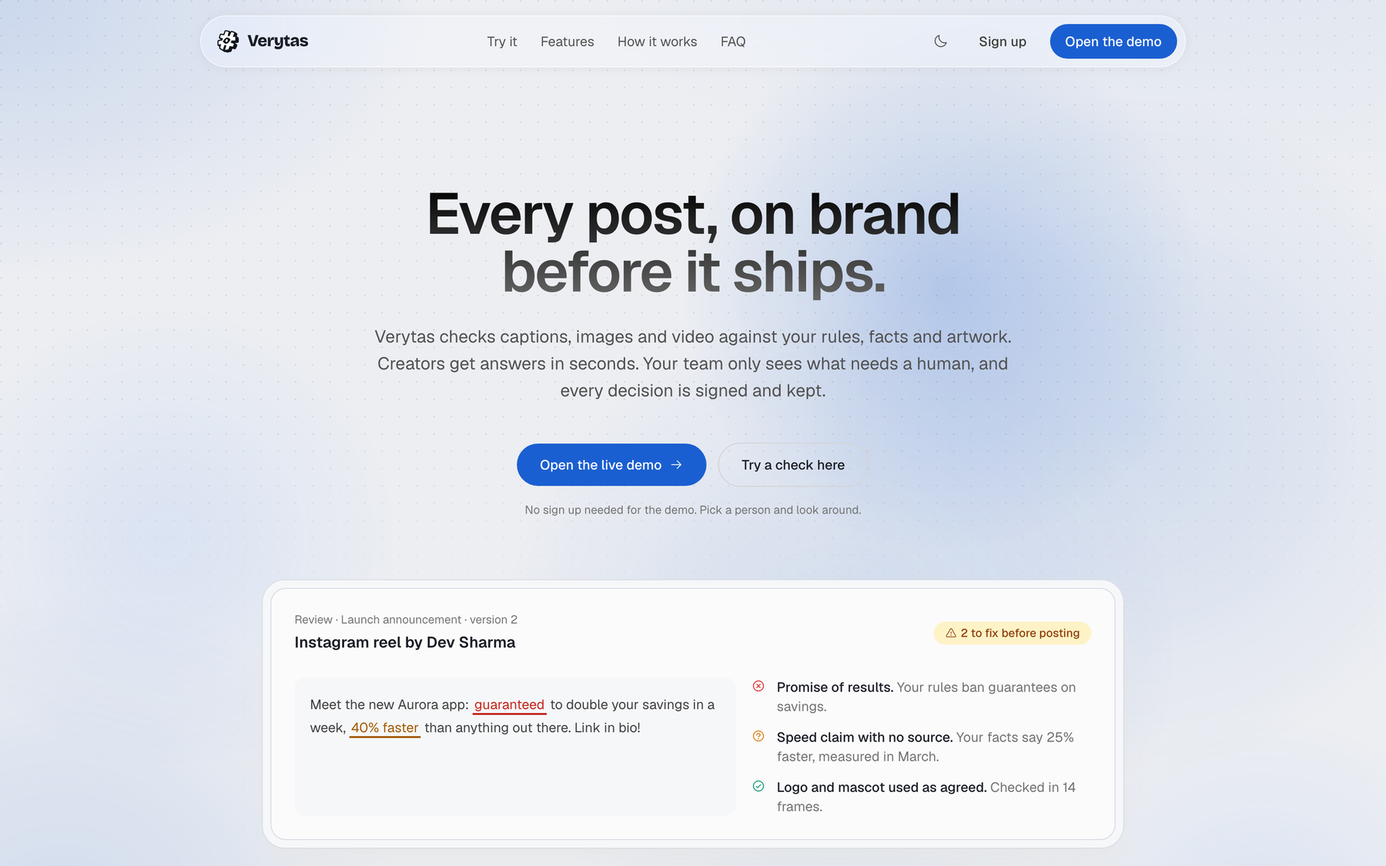
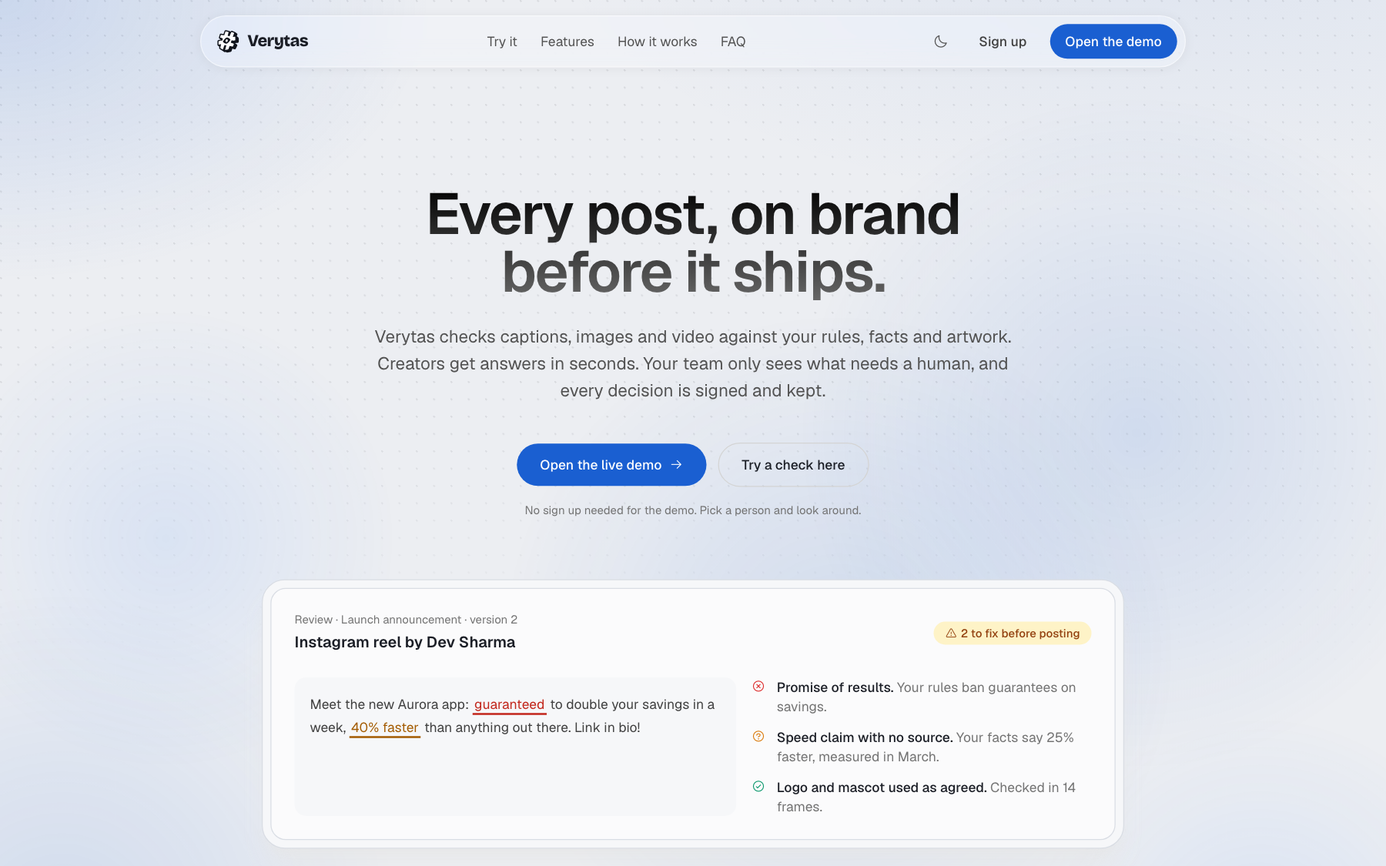
docs: Inki's memory, the stack as built, and today's screens
The README, architecture and security notes predated Inki's memory: it now appears as a feature, in both
diagrams, the stack, the Round 3 summary, the quality table and known limits, with its routes and a section
on how recall and the per-person store work and are held. Architecture section 17 still listed the Round 1
plan (Supabase, Vercel, Presidio, Vale, promptfoo, MCP SDK v2) and contradicted section 15; it now lists what
shipped, and section 3's egress filter describes the redactor that exists. The tour has 10 and 7 steps, not
9 and 6. The memory results record the public-demo run after release. Screenshots are retaken from the live
demo: the account card, the full-pane conversations and Inki's summary button were not in the old ones.

diff --git a/docs/architecture.md b/docs/architecture.md
@@ -58,7 +58,7 @@ Every record (source document, rule, fact, asset, log line, content item, findin
 
 The rules work like Bell-LaPadula ("no read up"), simplified for us:
 - An agent's capability token carries a **tier ceiling**, so a public-plane worker can never retrieve `confidential` facts.
-- Anything leaving for an external model passes the **egress filter**: Presidio PII recognisers plus a custom recogniser built from the workspace's confidential term list. Matches are swapped for placeholders (`[[CODENAME_1]]`) and restored after the response.
+- Anything leaving for an external model passes the **egress filter** (`security/redaction.py`): patterns for email addresses, phone and card numbers and secret keys, plus a matcher built from the workspace's confidential term list (sound-alikes included). Matches are swapped for placeholders (`[[CODENAME_1]]`) and restored after the response.
 - **Added:** confidentiality becomes a check in its own right. If a draft marketing post mentions an unreleased codename or an embargoed number, the Legal and confidentiality worker flags it ("this term is labelled confidential until 2026-12-01"). This is the most direct way to "protect confidential materials", and it's a feature most teams will miss.
 
 ---
@@ -330,7 +330,7 @@ flowchart LR
         MCPS["/mcp<br/>tools: read, search, submit"]:::sec
         CON["content<br/>/contents /reviews /findings<br/>transition, comments, timeline,<br/>resubmit, ai-edit, disputes,<br/>document preview and pages"]:::core
         INS["insights<br/>/insights/overview, recurring,<br/>guideline-health, performance"]:::api
-        AST["assistant · chats<br/>/assistant/context /chats"]:::api
+        AST["assistant · chats<br/>/assistant/context /chats<br/>/me/memories"]:::api
     end
 
     PRISM["Prism<br/>agents per part, judge"]:::core
@@ -397,6 +397,7 @@ flowchart LR
 | Brand events | `GET/POST /events` · `PATCH /events/{id}` · `POST /events/{id}/cancel` · `GET /events/{id}/impacts` | read: anyone · write: brand admin; every write runs the update chain |
 | Public contacts | `GET/POST /public-contacts` · `DELETE /public-contacts/{id}` | read: anyone · write: brand admin |
 | Ask Inki | `POST /assistant/context` (context plus the conversation, redacted with one set of placeholders) · `GET/POST/PUT/DELETE /chats` | anyone; confidential tier left out |
+| Inki's memory | `GET /me/memories` · `DELETE /me/memories` · `DELETE /me/memories/{id}` (section 24) | the person it is about, and no one else |
 
 Creators see only their own pieces on every content route; the brand team sees all of them within its clearance. Escalation messages, comments, disputes and resolution notes pass the guardrails (`security/guard.py`) before they are stored: a bribe or an instruction aimed at the AI is refused, and contact details are flagged for the brand team rather than refused, since a ten digit number is as often an order code. Conversation messages are not screened; Inki reads them only through its own guard.
 
@@ -443,24 +444,26 @@ The brief asks us to *check* accessibility, so our own UI should pass the same b
 
 ---
 
-## 17. Tech stack (and why)
+## 17. Tech stack (and why), as built
+
+The Round 1 plan named Postgres with pgvector on Supabase, Vercel and Render, Presidio, Vale, MiniCheck,
+SigLIP and promptfoo. What shipped is below; section 21 keeps the tools vetted for that plan, and section 19 its scope by round.
 
 | Layer | Choice | Why |
 |---|---|---|
-| Backend API | **Python 3.12, FastAPI, Pydantic** | the AI and NLP ecosystem (Presidio, sentence-transformers, OpenCV, grounding checkers) is Python-first; async for parallel workers; free OpenAPI docs |
-| Orchestration | asyncio task graph + governor in-process (MVP), Redis + arq workers later | simplest thing that runs end to end; scales out without a rewrite |
-| DB | **Postgres 16 + pgvector** (Supabase) | one database for relational, vector and RLS needs, matching the board's "1 database"; Supabase adds auth and storage for free |
-| Frontend | **Next.js + TypeScript + Tailwind + shadcn/ui** | fast to build an accessible review UI; Radix primitives are accessible by default |
-| Judge | **TypeSafe Jev** (`jev-1.13.0`) behind a `JudgeProvider` interface; **`gpt-oss:20b` on Ollama Cloud** as the free default when no Jev key is set | typed probabilistic answers per rule in one pass; the Ollama judge keeps the same interface, costs nothing on the free plan, and resamples only borderline answers |
-| LLMs | **Ollama Cloud** by default (`gpt-oss:120b` for explanations and rewrites, `gpt-oss:20b` for claim extraction), with Claude as a drop-in alternative behind the same `LLMProvider` interface | free tier fits the team's budget; schema-in-prompt plus pydantic validation and one repair round makes open models reliable for structured output; the interface lets routing control swap in a local model for confidential tiers |
-| Local models | sentence-transformers embeddings; **MiniCheck** grounding checker (770M, CPU); optional Ollama model for the confidential tier | confidential text never has to leave our server |
-| Lint | **Vale** (per-company YAML styles generated from rules), **textstat** | deterministic, instant, explainable |
-| Image | OpenCV, **colour-science** (CIEDE2000), Tesseract OCR, **SigLIP 2** embeddings | deterministic visual checks |
-| Accessibility | **axe-core** on rendered HTML, computed contrast, vision-model alt-text review | WCAG 2.2 coverage |
-| Safety | **Presidio** (now `data-privacy-stack/presidio`), custom recognisers, spotlighting, optional small injection classifier | PII and confidentiality |
-| Evals | **promptfoo** rubric suites | regression-test the judge and calibrate it against human labels in CI |
-| MCP | official Python MCP SDK v2 | standard, client-agnostic |
-| Deploy | Vercel (web) + Render or Fly.io (API) + Supabase | free tiers, quick |
+| Backend API | **Python 3.12, FastAPI, Pydantic, SQLAlchemy 2 (async)** | the media and model tooling is Python-first; async for parallel agents; free OpenAPI docs |
+| Orchestration | asyncio task graph with the governor in-process; Redis only for live conversation events | one process is enough for the demo's load and keeps a review's state in one place; the governor bounds model slots and running reviews |
+| DB | **SQLite** in WAL mode (Postgres-ready through asyncpg) | one file on one small server, readers never wait on the writer; the hash-chained audit log lives beside the data |
+| Frontend | **Next.js 16** (App Router, React 19), **Tailwind CSS 4**, OpenUI for Ask Inki's generated answers | server rendering keeps the session token off the browser; accessible components are written in-house |
+| Judge | **`gpt-oss:20b` on Ollama Cloud** behind a `JudgeProvider` interface, with **TypeSafe Jev** as the alternative | free on Ollama's plan; resamples only borderline answers; Jev gives typed probabilistic answers per rule where a key is set |
+| LLMs | **Ollama Cloud** (`gpt-oss:120b` for explanations and rewrites, `gpt-oss:20b` for extraction, `gemma4:31b` for vision), with Claude as a drop-in behind the same `LLMProvider` interface | free tier fits the team's budget; schema-in-prompt plus pydantic validation and one repair round makes open models reliable for structured output |
+| Local media | **RapidOCR** (ONNX Runtime), **faster-whisper**, OpenCV (SIFT and homography for artwork, YuNet and SFace for faces), pdfium, PyAV; LibreOffice in a sealed service | raw images and audio never leave the server |
+| Vision worker | Grounding DINO (tiny), SAM 2.1 (tiny), DINOv2 (small) on PyTorch CPU, on an instance that wakes on demand | too heavy for the always-on server; costs nothing while asleep |
+| Inki's memory | **fastembed** (`bge-small-en-v1.5`, ONNX, CPU) and **mem0** over an on-disk Qdrant store (section 24) | small enough for a 4 GB server (400 MB peak against 953 MB for the multilingual model, same accuracy on unseen cases); no service to run |
+| Safety | in-house text and pixel redaction, input guardrails (`security/guard.py`), Ed25519-signed findings | confidential terms are the brand's own list, so a fixed matcher with sound-alike matching beats a general PII model |
+| Evals | in-house harnesses under `backend/evals`, through the production code, results in `backend/evals/results` | each engine needs its own generated set and its own measure |
+| MCP | official Python MCP SDK 1.x (section 15) | 2.x is a rewrite with a different HTTP stack |
+| Deploy | AWS EC2 with Caddy and systemd, Cloudflare Pages in front, GitHub Actions, pull-based releases | one cheap server inside a hard budget cap; CI moves the branch the server pulls |
 
 ---
 
@@ -500,6 +503,8 @@ The table above is the Round 1 plan. **What Round 3 delivered** against the thre
 3. **The Brand Console runs it:** the approved-people tab with agreement dates, the video timeline with findings as marks and range comments, and image markup that the creator sees in place.
 
 **Round 3 add-on: performance feedback.** The brief asks for consistency before publishing; brands also ask whether a flagged post would have done worse. Once a piece is approved, its creator or the brand team records the live post's link and the numbers the platform shows (reach, views, likes, comments, shares, saves), or the brand team imports a CSV of numbers keyed by link (`api/results.py`). Nothing is fetched from a platform; reading Meta Graph, YouTube Analytics or LinkedIn's API where a brand grants access is the next step. Links are reduced to one address per post (https only, platform hosts without www. or m., YouTube short links and Shorts as the watch page, tracking parameters dropped), and a link belongs to one piece. Guideline health then shows, per rule, the median engagement of live posts that ran into the rule against posts on the same platforms that didn't, with a 90% bootstrap range for the difference. Three choices keep it honest: every rate uses one denominator (reach where most posts have it, else views); a finding dismissed as a false positive or not applicable doesn't count as running into the rule, while one fixed before posting does, since the question is whether what the rule catches costs engagement; and a rule says nothing until both sides have five posts with numbers. It informs the brand team's judgement and never changes a rule, a severity or a verdict, since engagement is confounded by budget, timing and audience; format and week are not controlled for yet.
+
+**Round 3 add-on: Inki's memory.** Inki used to see only a conversation's last 12 turns, so a decision made early in a long thread was invisible to it. It now gets the earlier turns a question depends on, and Ask Inki keeps what a person says about how they work (section 24).
 
 ---
 
@@ -611,6 +616,8 @@ Depth (8) and agent count (200) are capped per review. Every node records role, 
 
 **Precedent memory** (`prism/precedent.py`): every reviewer decision is a case (case-based reasoning): the rule, the flagged words, what was decided and why. A model-judged finding is shown its two nearest past cases on the same rule in the workspace, by word overlap (Jaccard over content words, at least 0.2), as "Dismissed on 4 Oct by Meera: tagline approved by the CMO", so a reviewer sees the earlier call instead of arguing it again. Cases come only from content at or below this content's tier, confidential terms and personal data in them are masked, creators are not shown them (they quote other people's pieces and name the reviewer), and they are context, never part of the signed verdict; mechanical findings are not touched. The same cases can be given to the semantic judge as extra examples (`precedent_examples`), but only clear outcomes count: an "intentional" dismissal says the words did break the rule. That stays off. Replaying the 234 seeded decisions in time order (`backend/evals/precedent`), the nearest cases agreed with the next reviewer less often than the rule's plain majority did (16 of 22 against 19 of 22 where a precedent existed). The seeded reviewers decide by persona at fixed rates per rule, so similar words carry no signal there; real reviewers are more consistent, and the examples wait for a measurement on real decisions.
 
+**Inki's memory** (`verytas/memory`, results in `backend/evals/results/memory.md`). Two kinds, one local embedding model (`bge-small-en-v1.5` through fastembed on CPU, loaded at start-up). *Earlier turns* (`memory/thread.py`): on top of the last 12 turns, up to 6 earlier ones from the last 400 are added when the question needs them. The question is ranked against them by meaning blended with shared words; acknowledgements ("ok", "lunch now") are not ranked; only turns that stand out from the rest are taken, so an unrelated question adds nothing. When the history is long enough to need it, the fast model first rewords the question, which closes vocabulary gaps the small model cannot ("what format" against "do it as a carousel") and carries Hinglish questions. Each message's vector is cached sealed like the message itself and goes when the message is edited or deleted; consent is checked again before the question first leaves the server, and no database transaction is held across a model call or an embedding. Inki is told that of two disagreeing turns the later one stands. On 28 generated conversations of 40 to 90 turns (5 seeds each), the turns holding an early decision reached Inki in 0% of cases before, 97% on the 12 cases the policy was tuned on and about three in four on 12 it never saw; through the live site, a 37-message thread got 5 of 5 questions right in 3.5 to 4.1 seconds. *About the person* (`memory/personal.py`): after each Ask Inki save, in the background, the fast model draws lasting facts ("runs the Instagram channel", "prefers short bullet answers") from the person's newest messages, through the same redacting provider as every model call, at most 20 calls an hour per person; a fact that names a confidential term is dropped. Facts are stored with mem0 over an on-disk Qdrant store under a scope built on the server from the signed-in person (workspace and user, never from the request), with their tier; a near-duplicate (cosine 0.92 or more on our own embedder) updates the old fact instead of adding one. Ask Inki gets the five nearest to the question. Nothing is drawn from shared conversations. Settings lists every fact, and one or all can be forgotten: mem0's own history log is replaced by a no-op and Qdrant's SQLite runs with `secure_delete`, so a forgotten fact is gone from the file, not just unlinked. The demo reset wipes it with the data it belongs to. `VERYTAS_MEMORY_ENABLED=false` turns both off and Inki reads only the recent turns, as before.
+
 **Calibration** (`prism/calibration.py`): a finding's certainty is also shown as what it has meant here: "reviewers agreed with 8 in 10 like it". An isotonic regression (pool adjacent violators) maps raw certainty to "the reviewer upheld it", fitted on the workspace's decided findings, per check category once it has 20 decisions and workspace-wide from 30; each step is shrunk towards the overall rate by ten pseudo-decisions, so a handful of decisions never reads as "always". Kept-on-purpose dismissals count as agreement, "guideline unclear" and escalations as nothing. Model-judged warnings on should rules also get a learned floor once there are 50 such decisions: a fixed grid from 0.85 down to 0.6 is tested in order (fixed-sequence testing, so the 90% holds over the scan), each step asking with a Hoeffding bound whether reviewers dismiss under 35% of warnings at or above it, in the style of Learn-then-Test; below the lowest step reached a finding is an advisory, still shown and marked as held back. Counts come only from content at or below this tier, and creators see the agreement rate but not the counts. Must rules and rule-based findings are never moved. Measured by replaying decisions in time order (`backend/evals/calibration`): on the seeded reviewers, who decide blind to certainty, the calibrated value (Brier 0.108) beats raw certainty (0.128) but not the plain base rate (0.101), which is the most anything can learn from them; on simulated reviewers who agree less often than the judge claims, it beats both (0.076 against 0.084 and 0.128). The shrinkage of ten was picked after a sweep on the seeded data, so treat these as a check that the mechanism works, not as a tuned result.
 
 **Learning from fixes** (`prism/fixstyle.py`): every model-written fix records its operation (swap the words, rewrite the sentence, delete it), and reviewers answer it: accepting the finding takes the fix, writing their own edit ("edited") does not, and a dismissed finding says nothing about its fix. Per rule, the operation to prefer is drawn by Thompson sampling from a Beta posterior per operation, once the rule has four decided fixes, so an operation with few chances still gets tried instead of the first lucky one winning for good. The fix prompt gets the preference with its counts, and the reviewers' own edits on the nearest similar lines (Reflexion-style memory, masked and escaped, so an edit cannot forge a hint of its own) as approaches to follow; a repair gets the edits but not the preference, since being told what went wrong outranks a habit. Counts and edits come only from content at or below this tier. Both are hints: the fix gate judges every proposal exactly as before. On simulated reviewers (`backend/evals/fixstyle`, 100 fixes per rule, 200 runs), learning which operation reviewers take had 74%, 80% and 64% of fixes taken on three kinds of rule, against 53%, 52% and 52% for the model alone (the best possible was 80%, 85% and 70%). Most of that gain comes from learning at all: always taking the best smoothed rate so far does almost as well (74%, 80%, 64%), and Thompson sampling is ahead only over the last 50 fixes (78% against 76%, 83% against 81%, 66% against 65%), where its exploration has paid off. The live half (`evals/fixstyle/live.py`, 53 fix cases on the production model, no repair round) shows the hint is followed: preferring rewrite took rewrites from 32 to 42, preferring replace took replacements from 8 to 33. A preference that does not fit the case costs fixes rather than letting bad ones through: the gate passed 43 with no hint, 40 preferring rewrite and 34 forcing replace everywhere, which is why the preference comes only from what reviewers took for that rule. Counts and tallies are not shown to creators.
@@ -627,7 +634,7 @@ Social content is short, so a 300-page PDF behind a caption, a 40 MP image or in
 
 **First steps** (`api/onboarding.py`, `components/home/GettingStarted.tsx`). On first sign-in each role sees one line on what its side of Verytas is for and a short checklist, ticked from what the workspace really holds, never stored: a brand admin hands over brand material, adds facts, codenames and artwork, invites a creator (with the join code) and sees a first review; a creator submits, fixes and asks; a reviewer or approver decides on a finding and asks. An empty company can load a sample brand kit (the fictional Kitepath library) through the library's own endpoints, only while its library has nothing of its own. A plain note says the demo companies are synthetic and that in production the library is filled from a brand's own systems through Intake.
 
-**Guided tour** (`components/Tour.tsx`). First-time users in testing could not tell what each part was for (`docs/research/user-testing.md`), so the console opens with a tour: a spotlight on one sidebar section at a time and a card in plain words, with Back, Next and Skip; nine steps for the brand team, six for creators. Every target is on every page, so the tour never navigates. It starts once per side per browser (`vt-tour:manager`, `vt-tour:creator` in local storage), not per account, because a demo visitor trying a second brand-team person has already had that tour; Settings > Profile starts it again. It is a modal like the others (focus kept in the card, the page inert, Escape skips), and on a short screen the card takes the larger free side and scrolls inside.
+**Guided tour** (`components/Tour.tsx`). First-time users in testing could not tell what each part was for (`docs/research/user-testing.md`), so the console opens with a tour: a spotlight on one sidebar section at a time and a card in plain words, with Back, Next and Skip; ten steps for the brand team, seven for creators. Every target is on every page, so the tour never navigates. It starts once per side per browser (`vt-tour:manager`, `vt-tour:creator` in local storage), not per account, because a demo visitor trying a second brand-team person has already had that tour; Settings > Profile starts it again. It is a modal like the others (focus kept in the card, the page inert, Escape skips), and on a short screen the card takes the larger free side and scrolls inside.
 
 **Search** (`api/search.py`, `components/GlobalSearch.tsx`). One bar at the top of every page (Cmd or Ctrl+K, or /) searches pieces, findings (latest review only), escalations, creators, rules, facts, codenames, artwork, events and the console's own pages and settings. Each group applies the same scoping as the screen it links to, in the query itself: workspace, tier clearance, creators only their own pieces, codenames for brand admins only, and no library hits for creators. Before anything is typed it suggests what needs this person next: the review queue oldest first, open escalations, guidelines reviewers often override, recent pieces. Recent hits are remembered per account in the browser.
 

diff --git a/README.md b/README.md
@@ -20,7 +20,7 @@ Verytas checks every post, caption, image, document and video against a brand's 
 
 </div>
 
-<p align="center"><img src="docs/assets/review.png" alt="A piece open on the review screen: the caption with each issue marked in place, the issues beside it with the rule and the approved fact behind them and who decided each, the steps from written to published, and a bar at the bottom that sends the piece back with its changes" width="900"></p>
+<p align="center"><img src="docs/assets/review.png" alt="A piece open on the review screen: the caption with a misspelt product name marked in place, the issues beside it ranked must fix to consider, the first open with the rule behind it and the suggested fix, the steps from written to published, and a bar at the bottom that walks the reviewer through what is left" width="900"></p>
 
 ## The problem
 
@@ -39,9 +39,10 @@ A brand works with dozens of creators and agencies who post every day, in many l
 | **Fixes, not just flags** | It swaps a phrase, rewrites a sentence or removes a dig, whichever the rule needs, and a judge that knows the rule checks the offer and call to action survive. One click applies it. |
 | **Keeps people in charge** | Creators can dispute a reading; the brand team walks through the issues one by one (asking for a fix, keeping it as is with a reason, or escalating), then approves or sends the piece back with the fixes it asked for, and every override needs a written reason. |
 | **Easy to pick up** | A guided tour on the first visit to each side, plain-word summaries of any piece, and every status, score and empty page explained where it appears. Shaped by [user testing](docs/research/user-testing.md) with three first-time users. |
-| **Talks it through** | *Conversations* between a creator and the brand team, next to the piece in question: replies, edits, deletes, files with previews, and meeting links that become a Join card. Encrypted at rest, live over Redis (it falls back to one process without it). Mention **@Inki** and the assistant answers from the record, only after the person asking has agreed that it may read the conversation. |
+| **Talks it through** | *Conversations* between a creator and the brand team, next to the piece in question: replies, edits, deletes, files with previews, and meeting links that become a Join card. Encrypted at rest, live over Redis (it falls back to one process without it). Mention **@Inki** and the assistant answers from the record, only after the person asking has agreed that it may read the conversation. In a long thread it finds the earlier turns the question depends on, so a budget agreed 40 messages ago still reaches it. |
 | **Marks the exact spot** | Videos play in the review with each issue on the timeline; drag along it to comment on a stretch, at 0.5x to 2x, with no download. Images take a marker, an eraser and text, saved with the comment, so the creator sees what to change in place. |
 | **Learns how posts did** | Once a piece is live, its link and the platform's numbers go on the piece (typed, or a sheet for the brand team). Guideline health then shows, per rule, how posts that ran into it did against those that didn't, as a range, and only once there are enough posts. Nothing is read from the platforms. |
+| **Remembers how you work** | Tell *Ask Inki* "I run the Instagram channel, keep answers short" once, and it keeps that for you alone. Settings lists everything it kept, and each item or all of it can be forgotten. Nothing is kept from shared conversations. |
 | **Works from your AI client** | A personal token lets Claude Desktop, Claude Code or any MCP client read your reviews, search and submit text as you, never more: no approving, no confidential terms ([how](docs/mcp.md)). |
 | **Learns from decisions** | Rules that reviewers keep overriding are surfaced as unclear, and model-judged rules tune how confident they must be before flagging. |
 
@@ -114,6 +115,8 @@ flowchart LR
         MCP["MCP endpoint<br/>personal tokens,<br/>read and submit only"]:::api
     end
 
+    MEM["Inki's memory<br/>local embeddings: earlier turns,<br/>what each person told Ask Inki"]:::local
+
     LOCAL["Local media tools<br/>OCR, speech to text,<br/>image matching, faces, PDF"]:::local
     VISION["Vision worker<br/>finds and compares mascots<br/>(wakes on demand)"]:::local
     MODELS["Ollama Cloud<br/>gpt-oss, gemma4 vision"]:::ext
@@ -124,6 +127,7 @@ flowchart LR
     AI --> MCP --> API
     API --> CONV --> REDIS
     CONV --> GUARD
+    API & CONV --> MEM
     PRISM --> CHECKS
     PRISM --> LOCAL
     PRISM --> VISION
@@ -161,7 +165,7 @@ flowchart LR
         CAD["Caddy<br/>HTTPS, security headers,<br/>/mcp straight to the API"]:::web
         NX["Next.js<br/>:3000"]:::web
         FA["FastAPI + Prism<br/>:8000"]:::api
-        SQ[("SQLite<br/>+ media blobs")]:::data
+        SQ[("SQLite, media blobs,<br/>Inki's memory on disk")]:::data
         TM["Deploy timer<br/>every 3 min"]:::ops
         RD[("Redis<br/>loopback only")]:::data
         KW["Keep-warm timer<br/>judging hours, 10 USD cap"]:::ops
@@ -221,6 +225,7 @@ flowchart LR
 | **Backend** | Python 3.12, FastAPI, SQLAlchemy 2 (async), SQLite (Postgres-ready), Pydantic |
 | **AI models** | Ollama Cloud: `gpt-oss:120b` and `gpt-oss:20b` for language, `gemma4:31b` for vision. Swappable for TypeSafe Jev or Anthropic Claude |
 | **Media, all local** | RapidOCR (ONNX Runtime), faster-whisper, OpenCV (with YuNet and SFace for faces), pdfium, PyAV, LibreOffice (sandboxed, for Word and PowerPoint previews) |
+| **Inki's memory** | fastembed with `bge-small-en-v1.5` on ONNX Runtime (CPU, 65 MB), mem0 over an on-disk Qdrant store; no service and no telemetry |
 | **Vision worker** | Grounding DINO (tiny), SAM 2.1 (tiny), DINOv2 (small) on PyTorch CPU, on an EC2 Graviton instance that wakes on demand |
 | **Security** | Ed25519-signed findings, SHA-256 hash-chained audit log, text and pixel redaction, input guardrails, CSP |
 | **Infra and delivery** | AWS EC2, Caddy, systemd, Cloudflare Pages, GitHub Actions (pinned to commit SHAs), gitleaks, pip-audit, pnpm audit |
@@ -248,6 +253,7 @@ page language is declared. It has not been audited against WCAG by an outside te
 - **People's faces follow the brand's records.** A face is identified against the approved-people library; public portraits are looked up only when the brief names someone and the content isn't confidential.
 - **Uploaded files are handled as hostile.** Types are read from the bytes; zips, XML and pictures are read within size and pixel budgets; a web page is shown only in a frame with no scripts and a policy that loads nothing from outside, after every outside address is cut from it; Word and PowerPoint are converted in a sealed service (above).
 - **Checked before going public.** The whole git history was scanned for secrets with gitleaks: none.
+- **What Inki keeps about you is yours.** It is drawn only from your own Ask Inki chats, never from a shared conversation, with confidential terms dropped. Only you can see it, in Settings, and forgetting it removes it from disk, not just from the list.
 - **Signing out ends the session at the server.** A password account's token is revoked on sign-out and lapses after 7 days.
 - **What people type is screened too.** Bribes and instructions aimed at the AI are refused before they are stored. Contact details are flagged for the brand team, never refused: a long number is as often an order code.
 - **Access follows role and clearance**, checked on the server on every request, including in the audit log.
@@ -269,7 +275,9 @@ The three improvements committed to after Round 2, and where each stands.
 <p align="center"><img src="docs/assets/conversations.png" alt="Conversations: the brand team's inbox on the left, and a thread with a creator about a piece, with a Google Meet link shown as a Join card and Ask Inki shortcuts above the message box" width="900"></p>
 
 Also added in Round 3: performance feedback (a live post's link and numbers on the piece, compared per rule in
-Guideline health), a personal-token MCP endpoint, a landing page, and Redis behind conversations.
+Guideline health), a personal-token MCP endpoint, a landing page, Redis behind conversations, and memory for
+Inki: the earlier turns of a long conversation, and what a person tells Ask Inki about how they work
+([how it was measured](backend/evals/results/memory.md)).
 
 **Reliability.** A test sends every API route the inputs nobody should send (ids that overflow, wrong types,
 empty and oversized bodies) as each role, and fails on any server error; it found and fixed a class of 500s.
@@ -293,6 +301,7 @@ method and the full results.
 | [Parts that disagree](backend/evals/results/crossmodal.md) | 28 posts | **14/14** caught, **0** false alarms |
 | [Judgement rules](backend/evals/results/second_look.md) | 32 sentences | **30/32** right |
 | [Suggested fixes](backend/evals/results/summary.md) | 73 findings | **82%** useful (45% before), **0** invented numbers |
+| [Inki's memory](backend/evals/results/memory.md) | 28 long conversations, 5 seeds each | an early decision reaches Inki in about **3 in 4** conversations it was never tuned on (**0%** before, with only the last 12 turns); **5/5** answered right on the live demo |
 | [Black-box simulator](blackbox/README.md) | 216 cases | **96%** recall, **0%** false alarms on clean posts |
 
 - **Over 700 backend tests** run offline on every push, including a sweep that sends every API route input nobody should send and fails on any server error, with type checks, lint and a production build for the web apps.
@@ -307,6 +316,8 @@ method and the full results.
   cut-out, not the comparison.
 - **Hindi speech** is transcribed with much error on CPU; codenames are caught by sound, other Hindi claims
   less reliably.
+- **A decision changed later in a long thread** reaches Inki in about half to two thirds of cases where the
+  change is worded unlike the question; Inki is told the later turn stands, but it has to see both.
 - **Post numbers are typed or imported**, not read from the platforms.
 - **No voice calls inside Verytas**; meetings run on the apps people already use.
 - **Open security items** (a script nonce, token rotation, per-user limits on Ask Inki) are listed in the
@@ -336,7 +347,7 @@ pnpm dev:manager                     # Brand Console on :3000
 pnpm dev:creator                     # Studio on :3001
 ```
 
-The seed creates the *Kitepath* brand with seven creators and eight weeks of history, and writes their tokens into `web/.env.local`. Without any API keys, model-judged checks fall back to an offline heuristic and every review says so. Without a backend, the web app shows clearly labelled sample data.
+The seed creates the *Kitepath* brand with seven creators and eight weeks of history, and writes their tokens into `web/.env.local`. Without any API keys, model-judged checks fall back to an offline heuristic and every review says so. Without a backend, the web app shows clearly labelled sample data. On first start the API fetches the 65 MB embedding model for Inki's memory into `backend/.memory/`; without a network Inki reads only the recent turns, and `VERYTAS_MEMORY_ENABLED=false` turns memory off.
 
 ## Repository layout
 

diff --git a/docs/security/README.md b/docs/security/README.md
@@ -148,6 +148,7 @@ What was added after Round 2, and how each new surface is held.
 | Surface | How it is held |
 |---|---|
 | Conversations | Messages and their file details are sealed at rest with AES-GCM under a 256-bit key kept on the server outside the database, bound to their conversation. A creator sees only conversations they are part of. People are never refused for what they type (a phone number, an email); the limits are on Inki, in code (`services/inki_guard.py`): it answers @Inki only for someone who agreed to it reading the conversation, sees only that conversation and the pieces both people may open, with confidential terms replaced; a request for its instructions gets a fixed answer; everything people wrote goes in as quoted data; a reply that recites its instructions is replaced, and links and private contact details are taken out of its replies; and it has a per-person hourly limit. A link becomes a Join card only for a known meeting service (Google Meet, Teams, Zoom, Skype, Jitsi, Whereby); anything else stays plain text. |
+| Inki's memory (`verytas/memory`) | Earlier turns of a conversation are recalled only for someone who consented, re-checked before the question leaves the server; each message's vector is cached sealed like the message and removed with it. What Ask Inki keeps about a person comes only from their own Ask Inki chats, through the redacting provider, with any fact naming a confidential term dropped, at most 20 extraction calls an hour per person. It is stored under a scope the server builds from the signed-in person (workspace and user, never request input) with their clearance, and only they can list or delete it (`/me/memories`). Forgetting removes the text from disk: mem0's history log is a no-op and Qdrant's SQLite runs with `secure_delete`, checked by a test that greps the files for a forgotten fact. The local store is one process, which matches the single API worker; the demo reset wipes it with the data. |
 | Redis (live conversation events) | Bound to loopback with protected mode on, no persistence (the database is the record) and a 64 MB cap with old cache pages evicted first. Without it conversations still work in one process. |
 | MCP endpoint (`/mcp`, `docs/mcp.md`) | Personal tokens (`vt_pat_`, random, stored as SHA-256) work only there; the REST API refuses them, and a session token is refused at `/mcp`. Only accounts with their own password can make one, so the shared demo picker's people cannot. The Origin header is checked, tool calls are limited to 60 a minute per token and all requests to 240, and 20 failed sign-ins a minute from one address answer 429. Answers are redacted like the chats, capped at internal clearance, and search refuses a query that spells out a confidential term. |
 | Live post links and numbers | Links must be https, carry no user name or password, and use a plain ASCII host; tracking parameters are dropped. Nothing is ever fetched from the link, so a link cannot make the server call out. A sheet of numbers updates only live pieces within the importer's clearance, and is capped at 500 KB and 2,000 rows. |

diff --git a/web/README.md b/web/README.md
@@ -15,14 +15,14 @@ see; the apps only lay it out.
 | `/conversations` | Conversations between a creator and the brand team beside the piece in question: replies, edits, files, meeting links as Join cards, and @Inki on request |
 | `/creators` | Each creator's record (brand team) |
 | `/library` | Rules, facts, confidential terms, artwork and Intake, where brand material is handed over and drafted into the library |
-| `/guidelines` | Guideline health: which rules reviewers override or disagree about, with a clearer wording drafted on request |
+| `/guidelines` | Guideline health: a ring of how clear the rules are (Confusing, A bit unclear, Clear) beside each level's rules with the numbers behind them, a clearer wording drafted on request, and Open landing on the rule in the library |
 | `/ask` | Ask Inki: questions answered as live charts and tables from the brand's own data |
 | `/ai` | How AI is used in Verytas, in plain words |
 | `/signin` | The demo's person picker, and `/signin/account` for own accounts |
 | `/privacy`, `/terms` | Static pages, served to anyone |
 
 Every browser call goes through `/api/v/...`, a server-side proxy that holds the session token and
-forwards only an allowlist of API routes. The two chats, Ask Inki (`api/chat`) and Summarize
+forwards only an allowlist of API routes. The two chats, Ask Inki (`api/chat`) and Inki's summary panel
 (`api/assist`), stream through `src/lib/guard.ts`, which answers requests for their instructions itself and
 cuts off a reply that starts reciting them.
 

diff --git a/backend/evals/results/memory.md b/backend/evals/results/memory.md
@@ -45,6 +45,10 @@ and one of them changed halfway. Five questions to Inki, all answered correctly:
 budget (15k, not the original 20k), the Hinglish deadline question, the Hinglish logo question, and a question
 about something never agreed (Inki said it didn't know rather than inventing). 3 to 5 seconds per answer.
 
+The same script against the public demo on 29 Oct, after the release: 5 of 5 again, 3.5 to 4.1 seconds per
+answer. The two facts told to Ask Inki were kept, the other person saw none of them, Settings listed them, and the
+script deleted everything it made before the demo was reset.
+
 ## Still missing
 
 - A changed decision reaches Inki in about half to two thirds of cases where the change is worded unlike the
